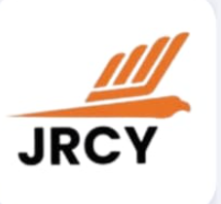
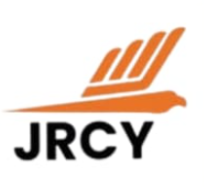
final

Changed region(s): [[0.0294, 0.1309, 0.9412, 0.8639], [0.9412, 0.9686, 0.9706, 1.0]]

diff --git a/app/components/BrandCarousel.module.css b/app/components/BrandCarousel.module.css
@@ -42,32 +42,34 @@
   align-items: center;
   white-space: nowrap;
   width: max-content;
+  will-change: transform;
+  transform: translate3d(0, 0, 0);
 }
 
 /* Animations */
 .scrollContentRight {
-  animation: scrollRight 120s linear infinite;
+  animation: scrollRight 145s linear infinite;
 }
 
 .scrollContentLeft {
-  animation: scrollLeft 100s linear infinite;
+  animation: scrollLeft 125s linear infinite;
 }
 
 @keyframes scrollRight {
   0% {
-    transform: translateX(0);
+    transform: translate3d(0, 0, 0);
   }
   100% {
-    transform: translateX(-50%);
+    transform: translate3d(-50%, 0, 0);
   }
 }
 
 @keyframes scrollLeft {
   0% {
-    transform: translateX(-50%);
+    transform: translate3d(-50%, 0, 0);
   }
   100% {
-    transform: translateX(0);
+    transform: translate3d(0, 0, 0);
   }
 }
 
@@ -84,27 +86,21 @@
 
 /* Logo image styles */
 .brandLogoLarge {
-  width: 180px;
-  height: 100px;
+  width: 148px;
+  height: 84px;
   object-fit: contain;
-  filter: brightness(1);
-  transition: filter 0.3s ease;
-}
-
-.themeDark .brandLogoLarge {
-  filter: brightness(0.9) drop-shadow(0 0 8px rgba(255, 255, 255, 0.1));
+  image-rendering: -webkit-optimize-contrast;
+  backface-visibility: hidden;
+  filter: none;
 }
 
 .brandLogoSmall {
-  width: 140px;
-  height: 80px;
+  width: 100px;
+  height: 56px;
   object-fit: contain;
-  filter: brightness(1);
-  transition: filter 0.3s ease;
-}
-
-.themeDark .brandLogoSmall {
-  filter: brightness(0.9) drop-shadow(0 0 8px rgba(255, 255, 255, 0.1));
+  image-rendering: -webkit-optimize-contrast;
+  backface-visibility: hidden;
+  filter: none;
 }
 
 /* Separator styles */
@@ -169,13 +165,13 @@
   }
 
   .brandLogoLarge {
-    width: 120px;
-    height: 80px;
+    width: 126px;
+    height: 72px;
   }
   
   .brandLogoSmall {
-    width: 100px;
-    height: 60px;
+    width: 84px;
+    height: 48px;
   }
 
   .separatorLarge {

diff --git a/app/components/BrandCarousel.js b/app/components/BrandCarousel.js
@@ -39,10 +39,13 @@ const BrandCarousel = () => {
                   <Image
                     src={brand.src}
                     alt={brand.name}
-                    width={180}
-                    height={100}
+                    width={148}
+                    height={84}
                     className={styles.brandLogoLarge}
-                    objectFit="contain"
+                    unoptimized
+                    quality={100}
+                    sizes="(max-width: 768px) 126px, 148px"
+                    style={{ objectFit: "contain" }}
                   />
                 </div>
                 <span className={styles.separatorLarge}>◆</span>
@@ -60,10 +63,12 @@ const BrandCarousel = () => {
                   <Image
                     src={brand.src}
                     alt={brand.name}
-                    width={140}
-                    height={80}
+                    width={100}
+                    height={56}
                     className={styles.brandLogoSmall}
-                    objectFit="contain"
+                    quality={100}
+                    sizes="(max-width: 768px) 84px, 100px"
+                    style={{ objectFit: "contain" }}
                   />
                 </div>
                 <span className={styles.separatorSmall}>◆</span>
